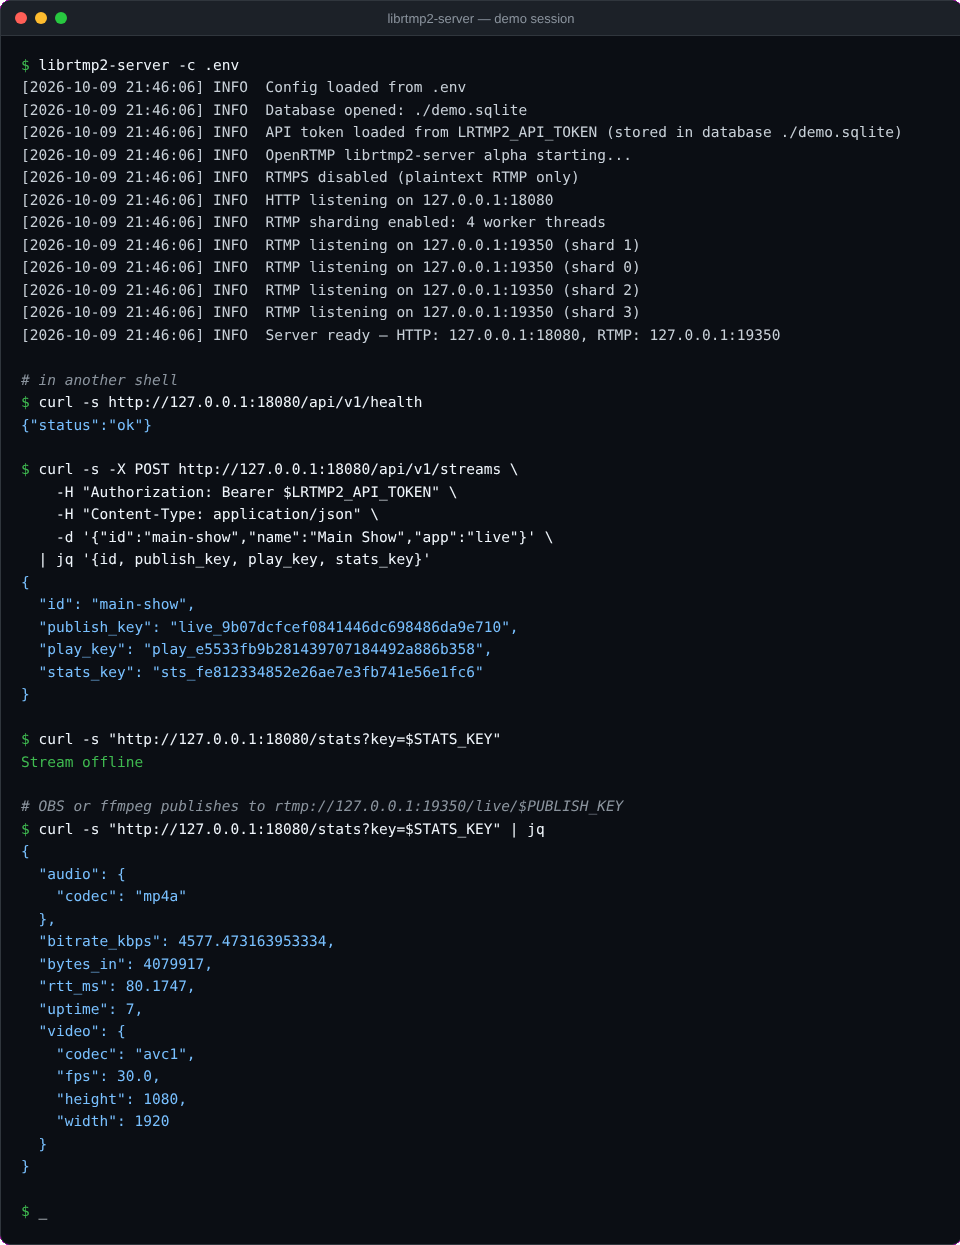
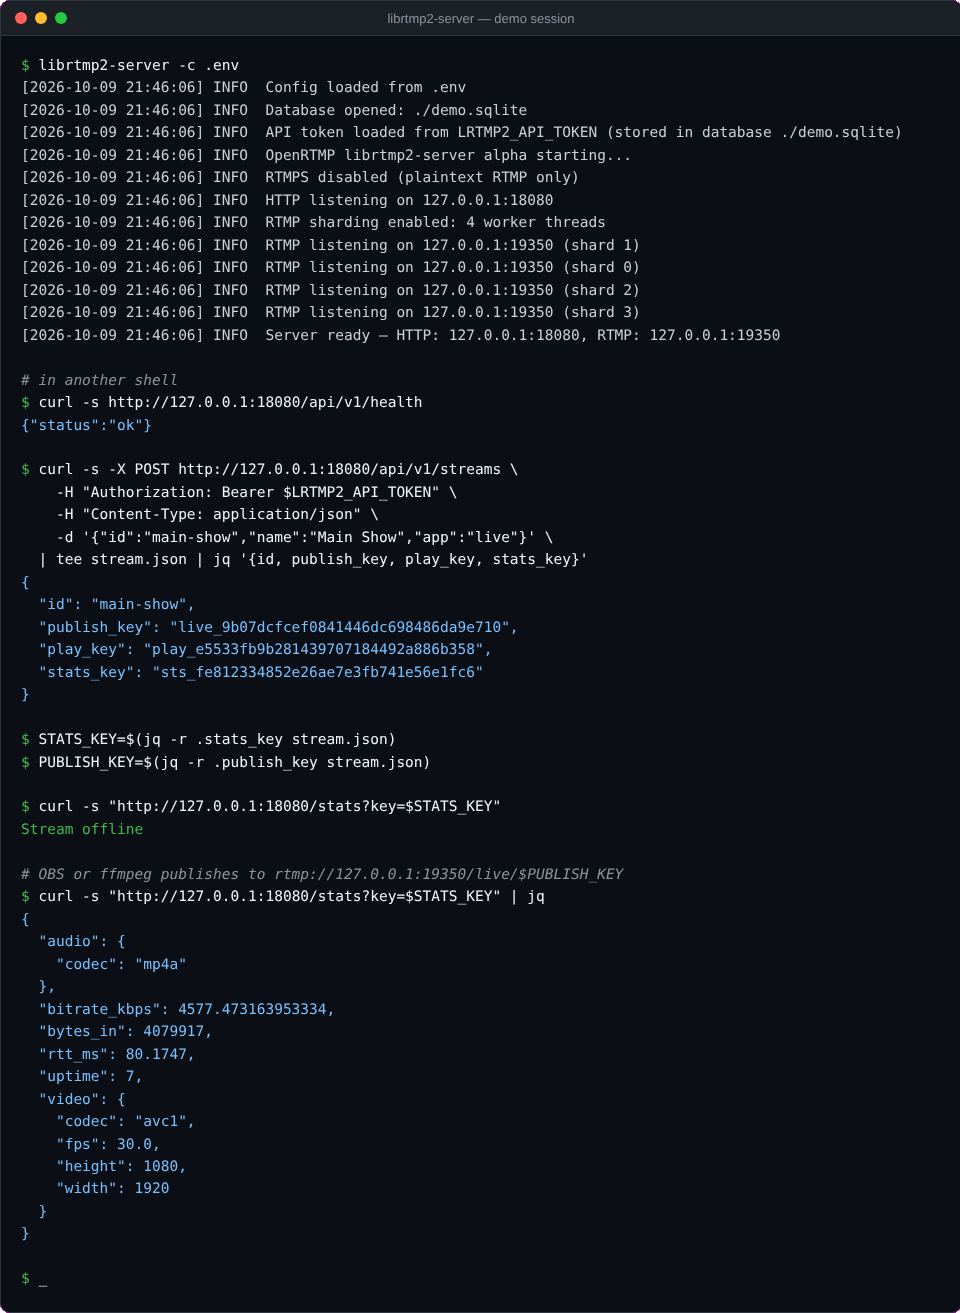
docs: replace the profile's Mermaid diagram with a rendered image
GitHub's Mermaid renderer clipped the two-line node labels in the
"OpenRTMP at a glance" diagram. The same diagram is now a static
image with alt text. The terminal demo is also synced with the
librtmp2-server README, which now sets the key variables it uses.

Claude-Session: https://claude.ai/code/session_01Msfo6ESaqkGVgf45Nhi93N

Changed region(s): [[0.0, 0.0305, 0.9375, 0.9157], [0.25, 0.7325, 0.3438, 0.7936], [0.4375, 0.0, 0.5938, 0.0305]]

diff --git a/profile/README.md b/profile/README.md
@@ -37,15 +37,7 @@ Both are real local sessions against a running librtmp2-server with sample data.
 
 **OpenRTMP is the umbrella project.** The repository names below are the implementation components behind one RTMP-focused ecosystem.
 
-```mermaid
-flowchart LR
-    Clients["OBS / FFmpeg / Apps"] --> Server["OpenRTMP Server<br/>librtmp2-server"]
-    Server --> Players["RTMP / RTMPS Players"]
-    Panel["OpenRTMP Control Panel<br/>librtmp2-server-panel"] -->|REST API| Server
-    Server --> Library["OpenRTMP Protocol Library<br/>librtmp2"]
-    Packages["OpenRTMP Packages<br/>packages"] -. distributes .-> Server
-    Packages -. distributes .-> Library
-```
+![OpenRTMP architecture: OBS, FFmpeg and other apps publish to the OpenRTMP Server (librtmp2-server), which serves RTMP and RTMPS players and is built on the OpenRTMP Protocol Library (librtmp2). The OpenRTMP Control Panel (librtmp2-server-panel) manages the server over its REST API, and OpenRTMP Packages distributes the server and the library.](assets/architecture.png)
 
 Use the complete stack when you want a self-hosted RTMP service, or adopt only the library/server component your application needs.
 
